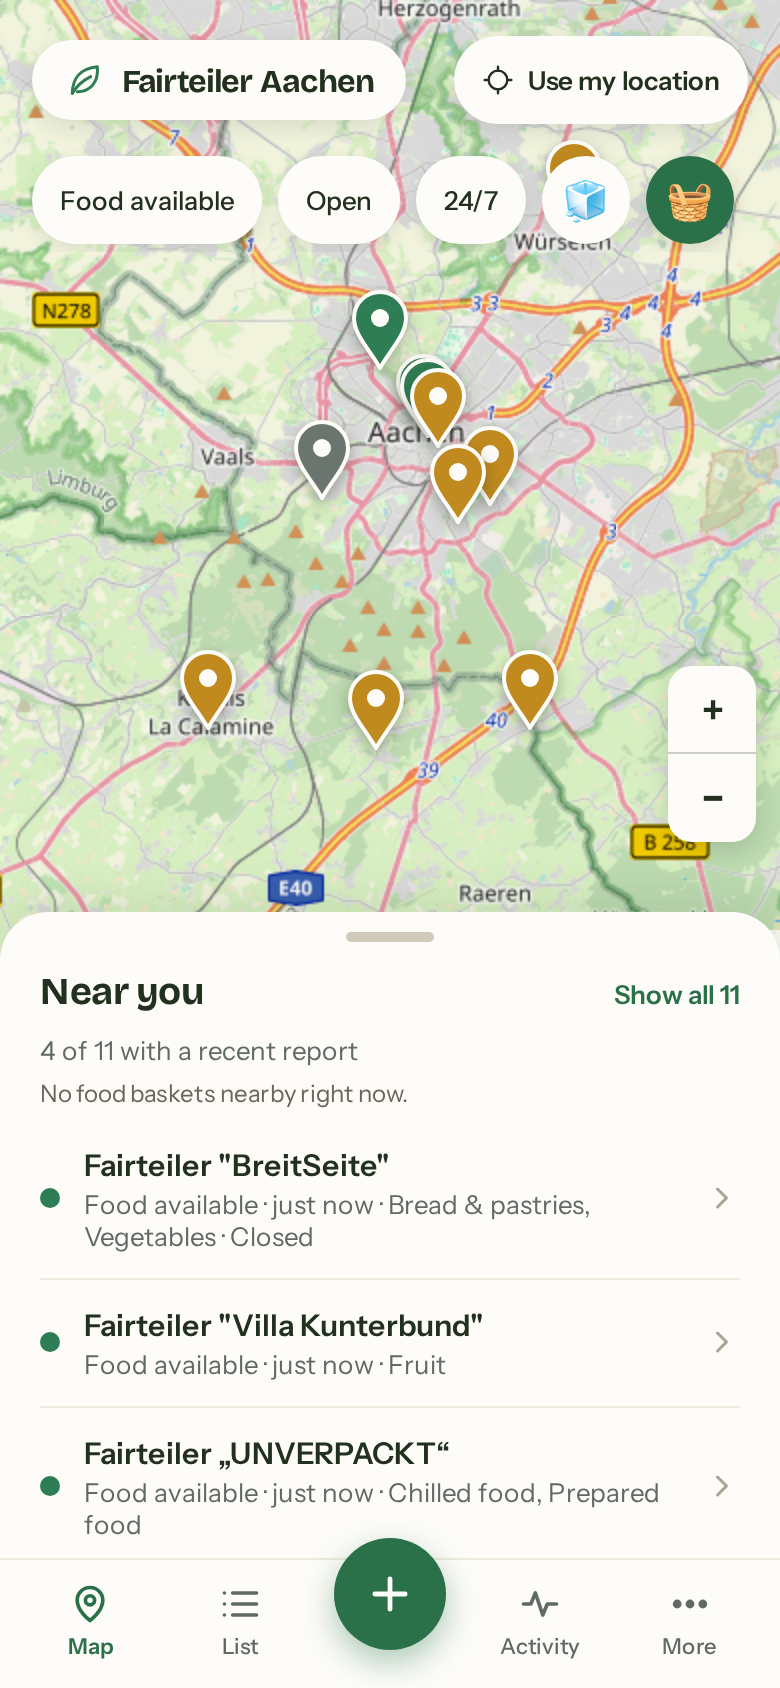
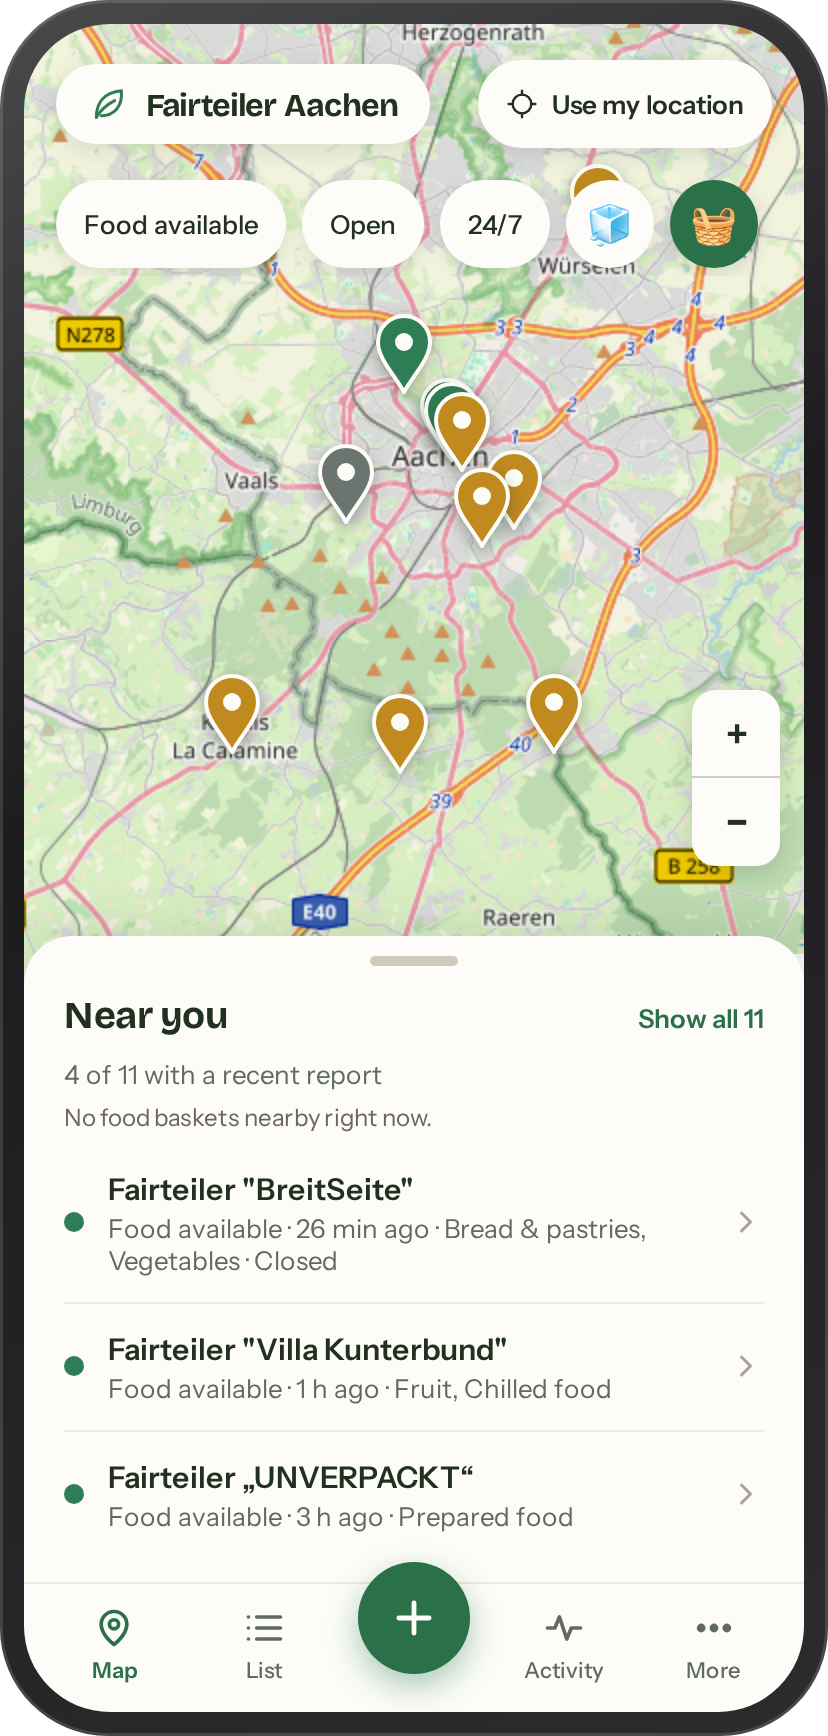
Device-framed screenshots with lively sample data; respect iOS safe area
Screenshots now sit in a phone frame (identical 828x1736 each) and
show a realistic dataset. Framing them surfaced a real bug: top-pinned
controls (map top bar, chips, detail hero buttons) ignored
env(safe-area-inset-top), so an installed iOS PWA would draw them
under the status bar / dynamic island.

Claude-Session: https://claude.ai/code/session_01D582R8mobJ9rJxcFetb6FE

diff --git a/frontend/src/views/KarteView.vue b/frontend/src/views/KarteView.vue
@@ -765,7 +765,8 @@ function useLocation() {
   position: absolute;
   left: 16px;
   right: 16px;
-  top: 18px;
+  /* installed on iOS the app draws under the status bar / dynamic island */
+  top: calc(18px + env(safe-area-inset-top));
   display: flex;
   align-items: center;
   justify-content: space-between;
@@ -817,7 +818,7 @@ function useLocation() {
   position: absolute;
   left: 0;
   right: 0;
-  top: 74px;
+  top: calc(74px + env(safe-area-inset-top));
   padding: 4px 16px;
   z-index: 500;
 }

diff --git a/frontend/src/views/DetailView.vue b/frontend/src/views/DetailView.vue
@@ -471,14 +471,14 @@ function goBack() {
 .backbtn {
   position: absolute;
   inset-inline-start: 16px;
-  top: 16px;
+  top: calc(16px + env(safe-area-inset-top));
   background: rgba(253, 252, 248, 0.92);
 }
 
 .sharebtn {
   position: absolute;
   inset-inline-end: 16px;
-  top: 16px;
+  top: calc(16px + env(safe-area-inset-top));
   background: rgba(253, 252, 248, 0.92);
 }
 

diff --git a/README.md b/README.md
@@ -33,7 +33,7 @@ seconds, no account, no tracking — built to **complement
 
 | Map | List | Detail | Transparency |
 |:---:|:---:|:---:|:---:|
-| <img src="docs/screenshots/karte.png" width="200" alt="Map of Aachen with status-colored Fairteiler pins"> | <img src="docs/screenshots/liste.png" width="200" alt="List of Fairteiler with status and activity charts"> | <img src="docs/screenshots/detail.png" width="200" alt="Fairteiler detail with live status, activity and opening hours"> | <img src="docs/screenshots/statistik.png" width="200" alt="Transparent anonymous usage statistics"> |
+| <img src="docs/screenshots/karte.png" width="190" alt="Map of Aachen with status-colored Fairteiler pins"> | <img src="docs/screenshots/liste.png" width="190" alt="List of Fairteiler with status and activity charts"> | <img src="docs/screenshots/detail.png" width="190" alt="Fairteiler detail with live status, activity and opening hours"> | <img src="docs/screenshots/statistik.png" width="190" alt="Transparent anonymous usage statistics"> |
 
 ## Features
 
